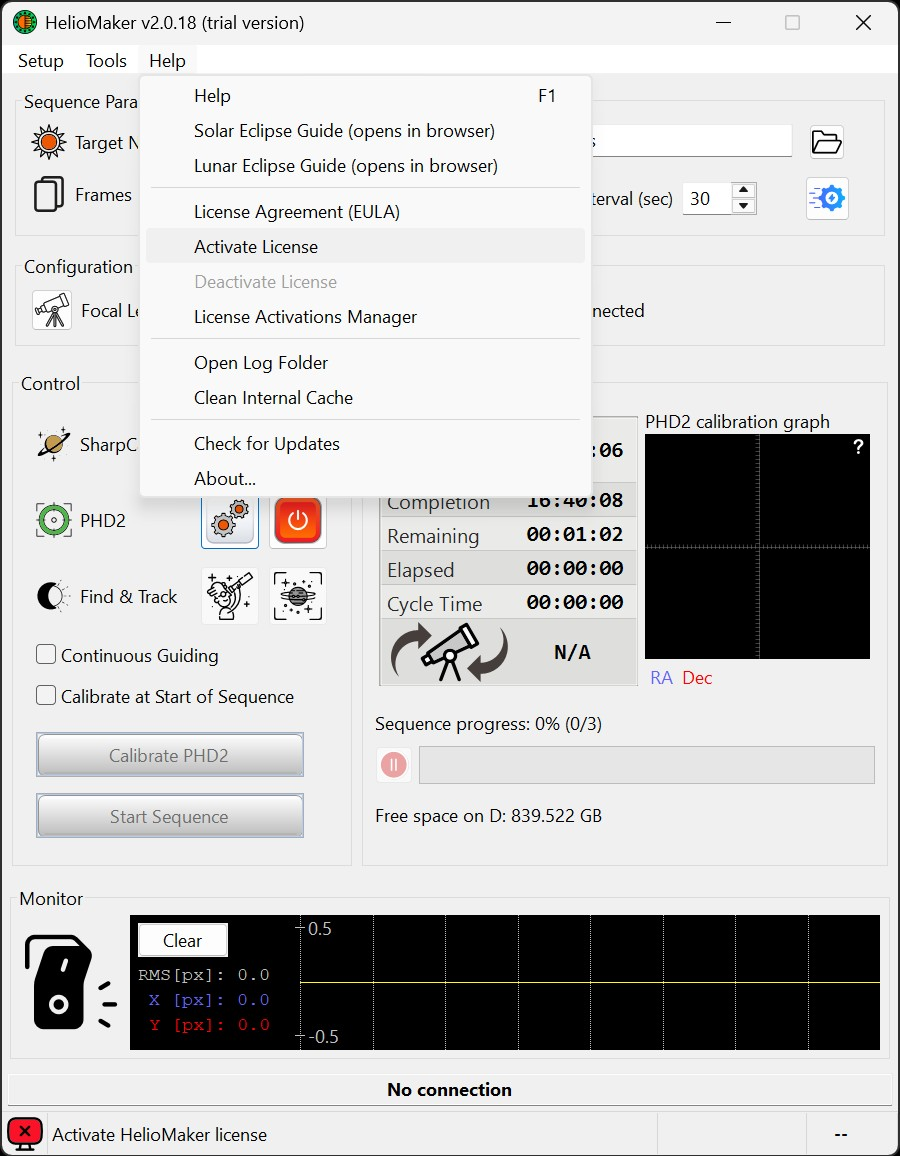
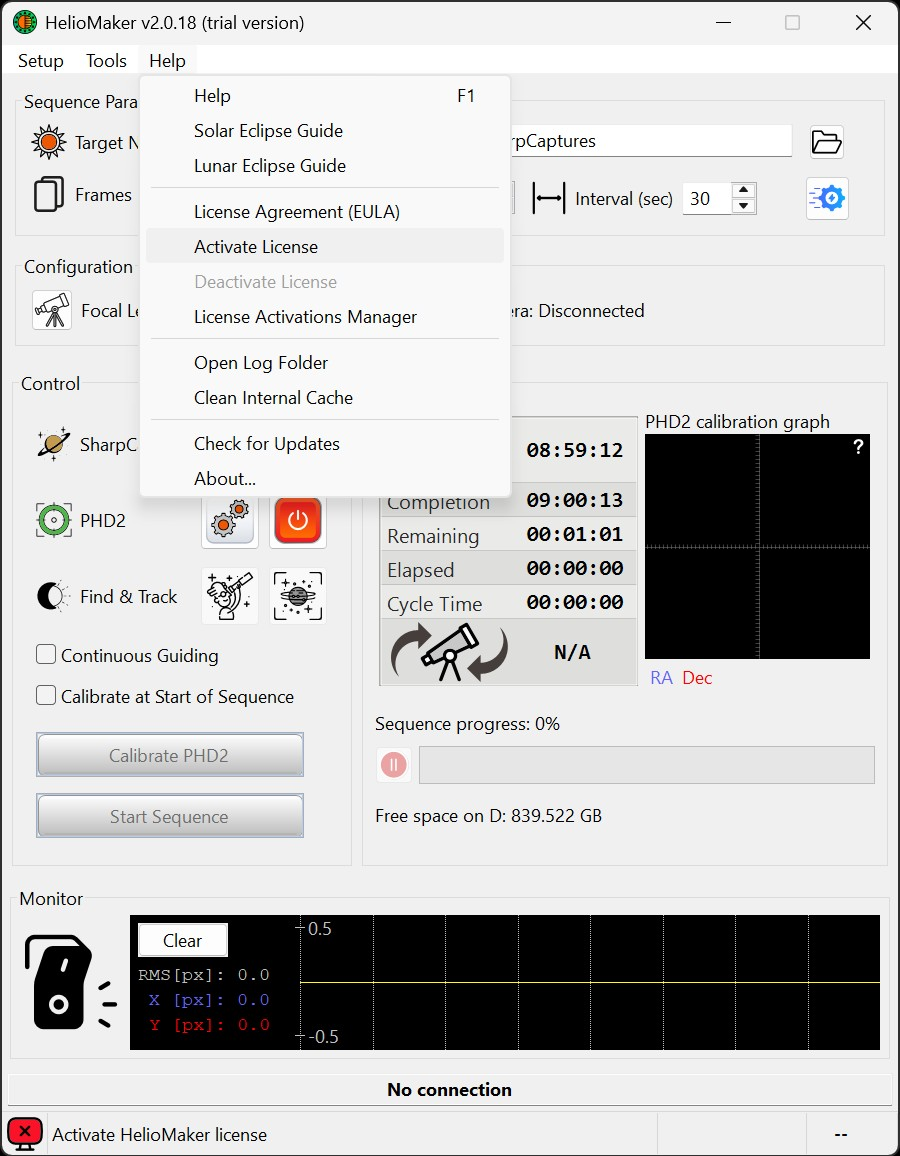
Publish help, solar and lunar guides from HelioMaker d8cbff5c

diff --git a/help/WhatsNew.htm b/help/WhatsNew.htm
@@ -20,6 +20,11 @@
     <h2>Latest Improvements (2.0.18)</h2>
     <ul>
         <li>
+            <strong>Eclipses through the end of 2027.</strong> The Solar and Lunar Eclipse Planners now cover
+            eclipses until the end of 2027, including full support for the great total solar eclipse of
+            August 2, 2027.
+        </li>
+        <li>
             <strong><a href="#lunar-eclipse">More stable lunar eclipse imaging.</a></strong> Improved capture
             scheduling, shared-camera guiding, capture counts, and recovery after camera or PHD2 interruptions.
             Long exposures are handled more reliably during camera startup and recovery. Stopping a run or

diff --git a/help/EclipseImaging.htm b/help/EclipseImaging.htm
@@ -182,8 +182,7 @@
         &#9658;&nbsp;<a href="https://docs.heliomaker.com/solar-eclipse/" target="_blank" rel="noopener"><strong>Open the Solar Eclipse Imaging Guide</strong></a>
     </p>
     <p>
-        You can also open it any time from the application menu: <strong>Help &#9656; Solar Eclipse Guide (opens in
-        browser)</strong>.
+        You can also open it any time from the application menu: <strong>Help &#9656; Solar Eclipse Guide</strong>.
     </p>
 
     <h2>Related HelioMaker Help</h2>
